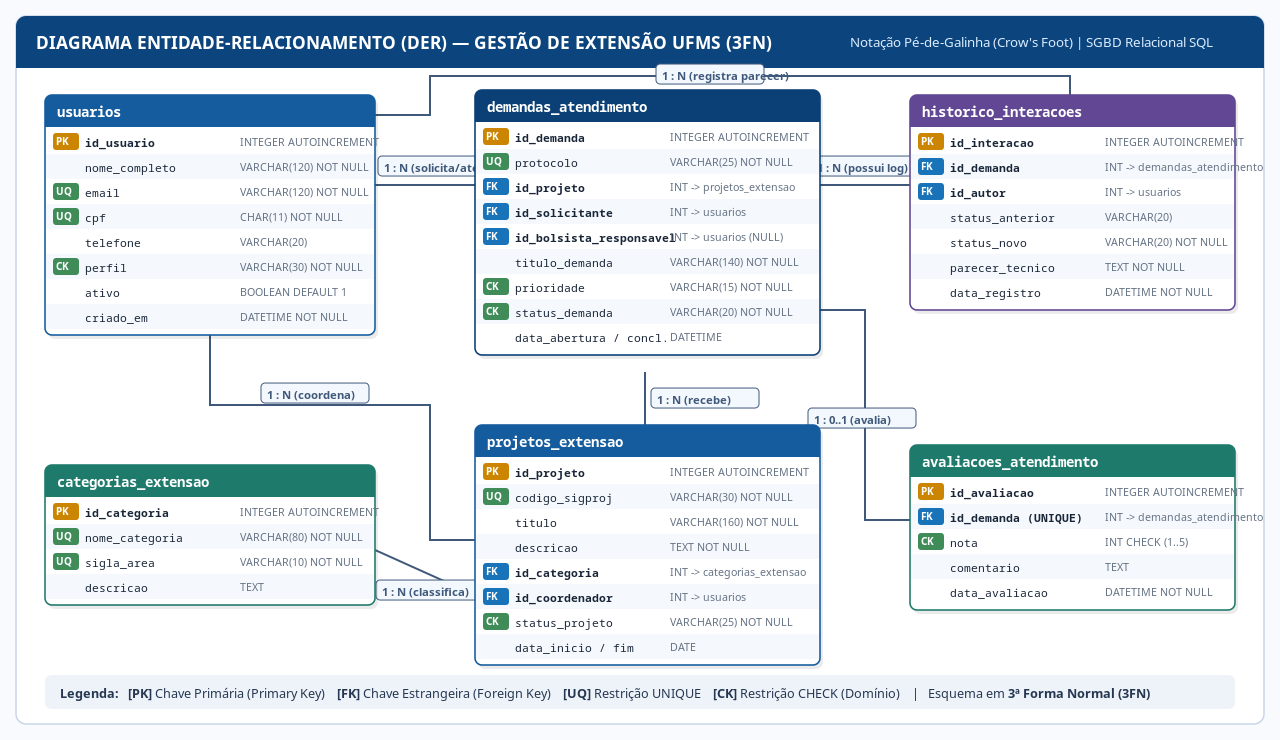
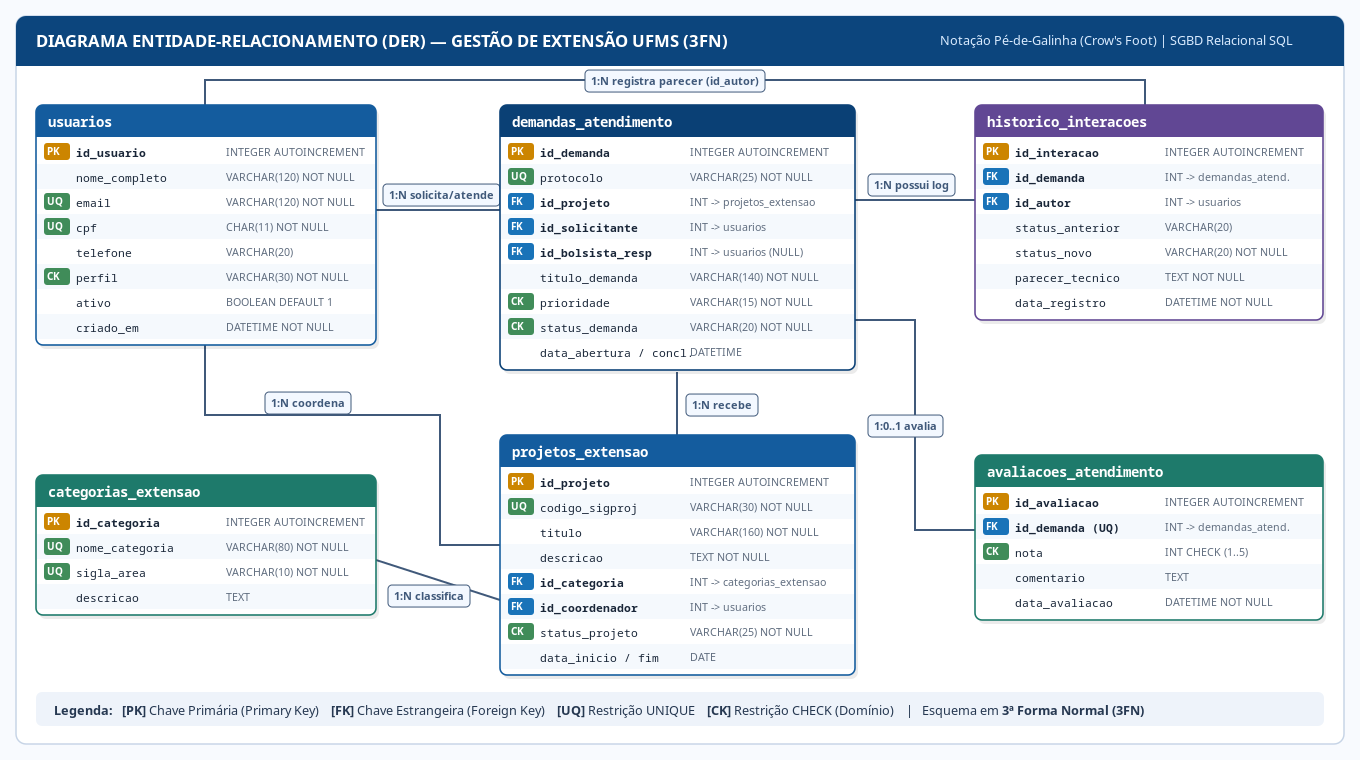
docs(evidencias): adiciona diagrama ER refinado e captura de execução SQL e Git

Changed region(s): [[0.0, 0.0311, 1.0, 0.9014], [0.0312, 0.9324, 0.9062, 0.9635], [0.1562, 0.4973, 0.3438, 0.5595]]

diff --git a/README.md b/README.md
@@ -4,8 +4,8 @@ Repositório referente à **Avaliação do Módulo 3 — Banco de Dados e Contro
 
 - **Acadêmico:** Juliano de Carvalho Moreira
 - **Disciplina:** Banco de Dados e Controle de Versão (`2026.2`)
-- **Repositório Front-End (Módulo 2):** `https://github.com/julianomoreira-ufms/gestao-extensao-web`
-- **Repositório Banco de Dados (Módulo 3):** `https://github.com/julianomoreira-ufms/gestao-extensao-db`
+- **Repositório Front-End (Módulo 2):** `https://github.com/julianomoreira-hub/gestao-extensao-web`
+- **Repositório Banco de Dados (Módulo 3):** `https://github.com/julianomoreira-hub/gestao-extensao-db`
 
 ---
 
@@ -47,7 +47,7 @@ gestao-extensao-db/
 ### Passo a Passo (SQLite3)
 ```bash
 # 1. Clonar o repositório
-git clone https://github.com/julianomoreira-ufms/gestao-extensao-db.git
+git clone https://github.com/julianomoreira-hub/gestao-extensao-db.git
 cd gestao-extensao-db
 
 # 2. Executar a criação do esquema (DDL)
@@ -66,3 +66,4 @@ sqlite3 -header -column database/gestao_extensao.db < sql/03_operacoes_dml_dql.s
 O gerenciamento de código-fonte deste projeto adota:
 1. **Estratégia Feature Branch**: desenvolvimento segmentado em branches temáticas (`feature/modelagem-ddl`, `feature/manipulacao-dml-dql`, `docs/diagrama-relatorio`) integradas à branch principal `main` via *merge* explícito (`--no-ff`) para preservar o histórico de evolução.
 2. **Conventional Commits**: mensagens padronizadas (`chore:`, `docs:`, `feat(ddl):`, `feat(dml):`, `feat(dql):`) facilitando a leitura do log e auditoria técnica.
+
